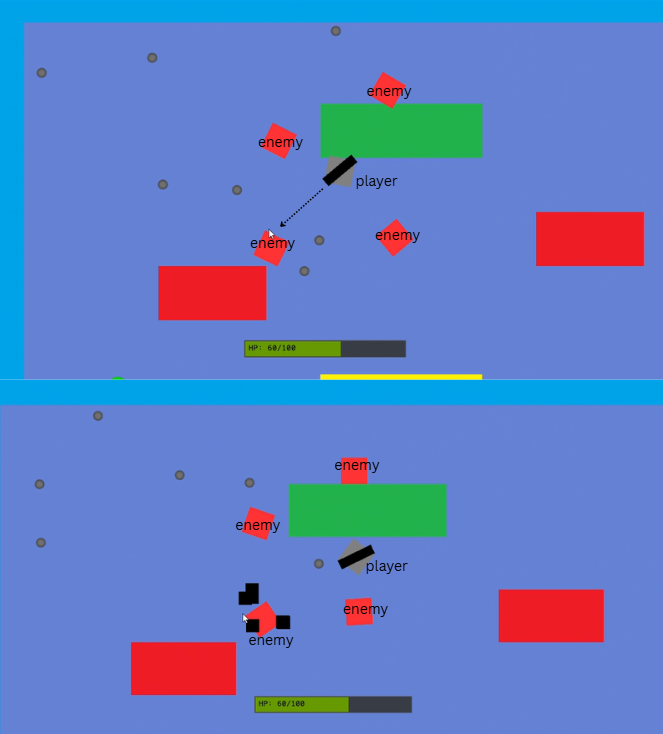
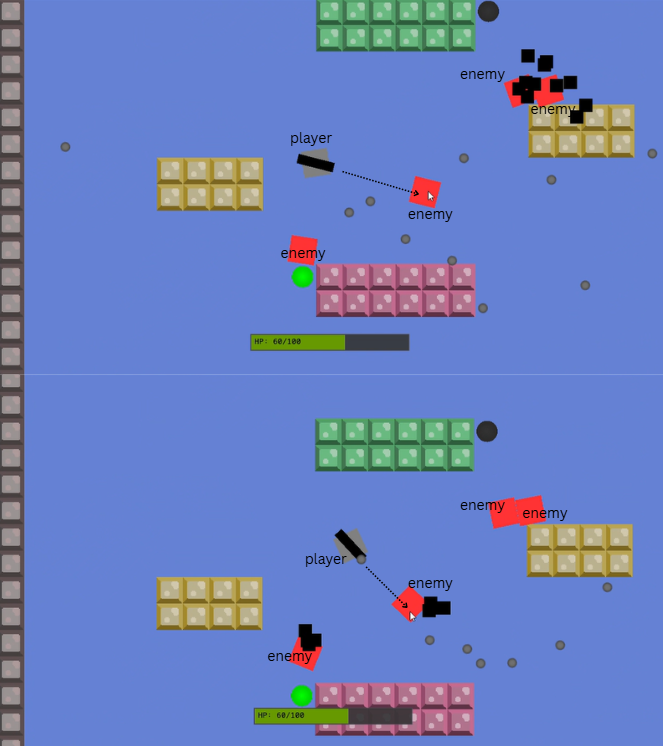
more updates

diff --git a/src/configs/wave_config.cpp b/src/configs/wave_config.cpp
@@ -31,6 +31,6 @@ const std::vector<Wave> WAVE_CONFIGS = {
 
 const std::vector<Level> LEVEL_CONFIGS = {
 	{
-		{ 2, {HAZARD_TYPE::MINE}, {POWER_UP_TYPE::HEAL}, {300.f}}
+		{ 2, {HAZARD_TYPE::MINE}, {POWER_UP_TYPE::HEAL}, {}}
 	}
 };
